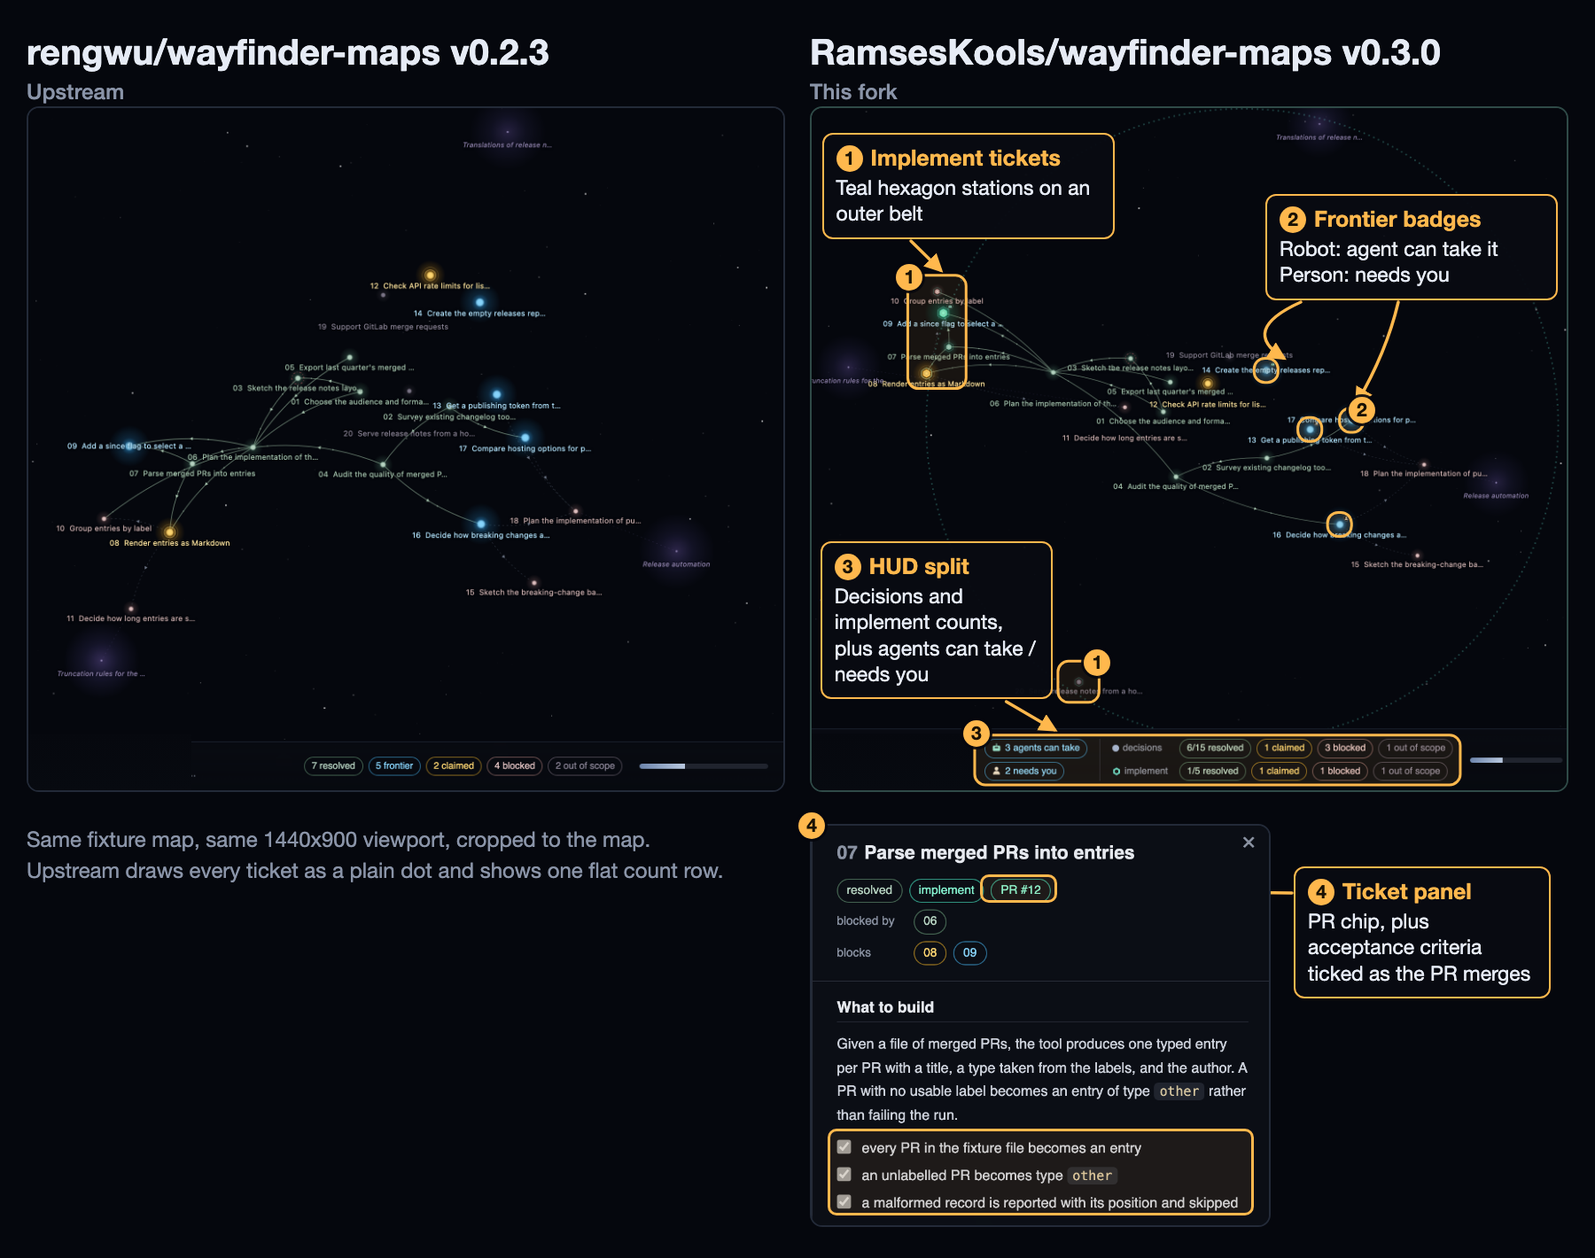
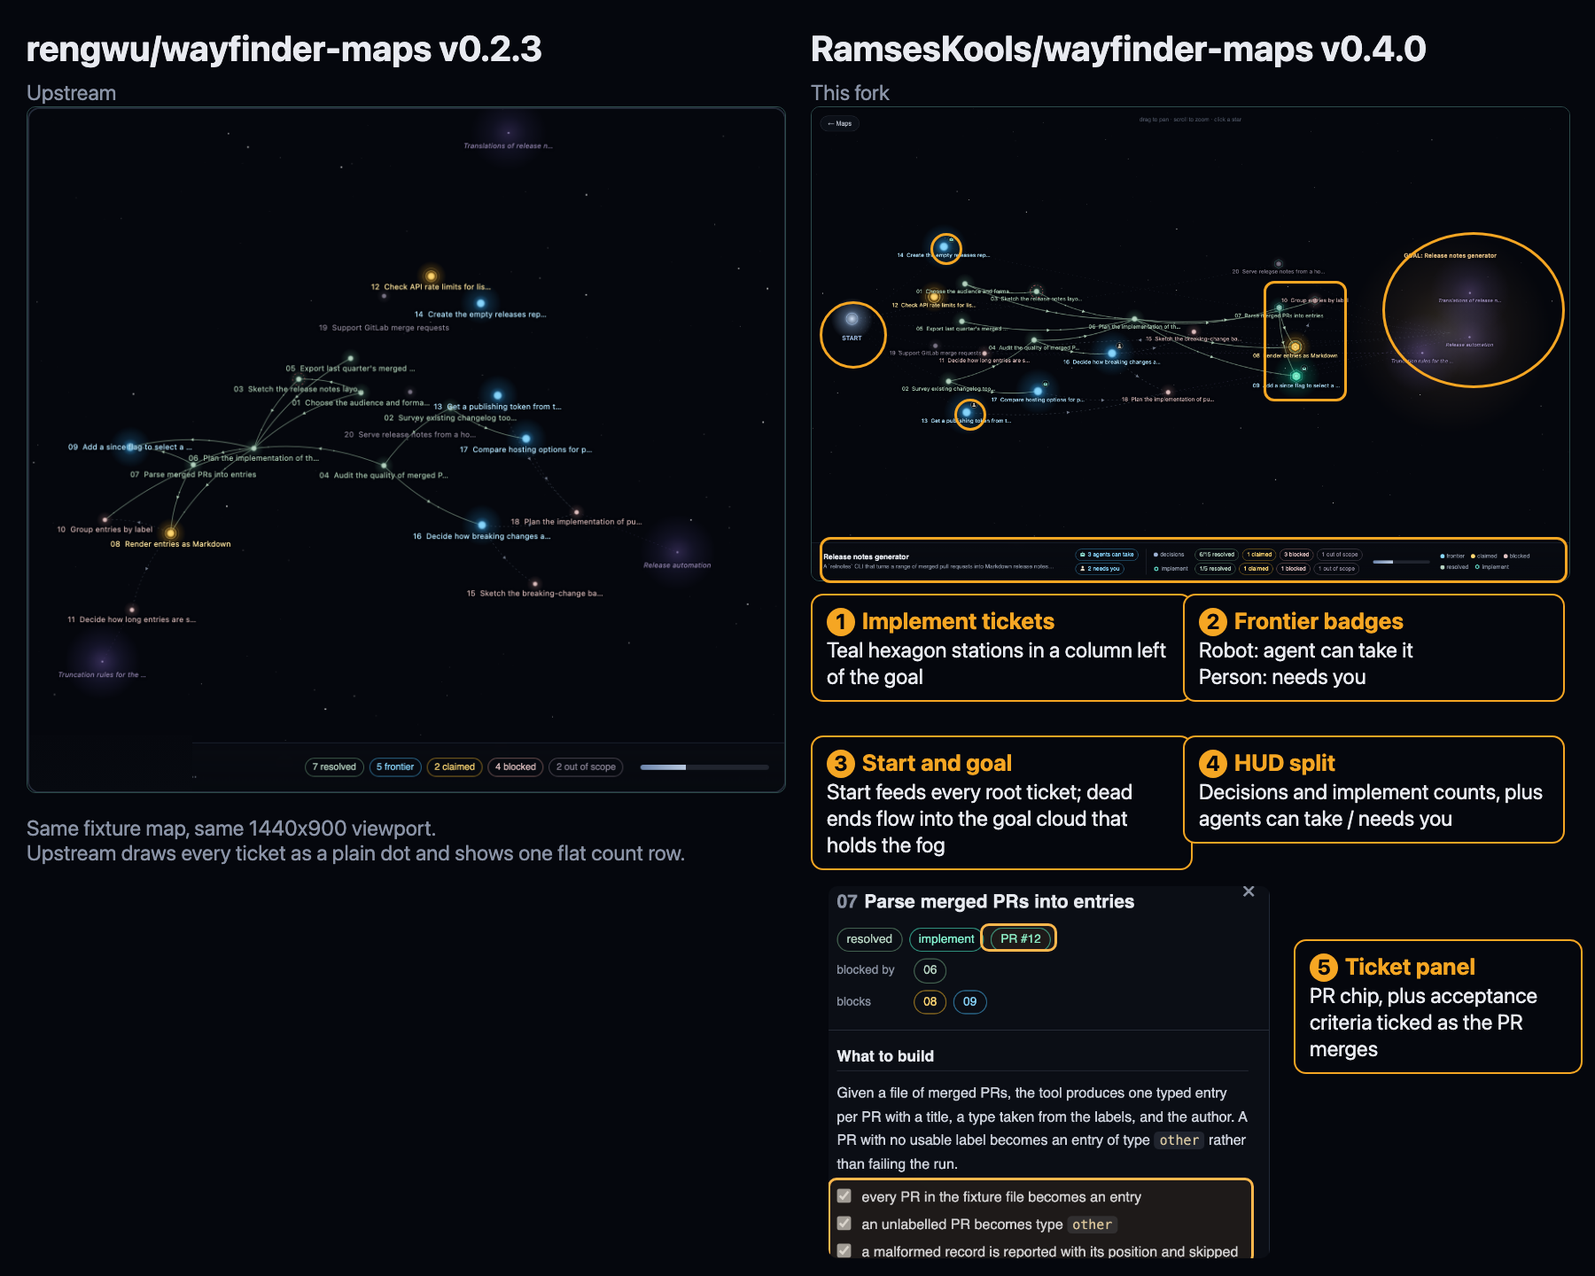
feat(viewer): virtual start, goal cloud and left-to-right layout (v0.4.0) (#13)
* feat(viewer): virtual start, goal cloud and left-to-right star map layout

Closes #12

* docs: refresh README images for the left-to-right layout

* fix(viewer): drop the implement belt line in the left-to-right layout

diff --git a/cmd/wayfinder-maps/web/js/layout.js b/cmd/wayfinder-maps/web/js/layout.js
@@ -2,12 +2,13 @@
 import {S} from "./state.js";
 import {clamp, mulberry32} from "./util.js";
 
-export function ringR(rank) { return 130 + rank * 165; }
+// The map reads left to right: a ticket sits in the column of its dependency depth.
+export function colX(rank) { return rank * 190; }
 
-// Implement tickets orbit in an outer belt past the outermost decision ring.
+// Implement tickets sit in a column past the rightmost decision column.
 // Maps without implement tickets never reach the belt branch, so their layout
 // is unchanged.
-var BELT_GAP = 160, BELT_FRAC = 0.3, BELT_STEP = 40;
+var BELT_GAP = 190, BELT_STEP = 40;
 var BELT_PULL = 0.2;
 var belt = false, decDepth = 0, beltR = 0;
 // With a belt, depth is counted within each kind: a decision that waits on an
@@ -28,41 +29,35 @@ function rankSpan() {
     return (memo[n.num] = d);
   }
   S.nodes.forEach(function(n) { n._depth = depth(n); if (n.kind !== "implement") decDepth = Math.max(decDepth, n._depth); });
-  beltR = ringR(decDepth);
+  beltR = colX(decDepth);
 }
-// The belt is a hard floor: past the outermost decision, an implement ticket is
-// pushed back out to its radius and keeps its angle, so edges only steer it around.
+// The belt is a hard floor: an implement ticket left of its column is pushed
+// right to it and keeps its y, so edges only steer it up and down.
 function clampBelt(list) {
   if (!belt) return;
-  beltR = ringR(decDepth);
-  S.nodes.forEach(function(n) { if (n.kind !== "implement") beltR = Math.max(beltR, Math.hypot(n.x, n.y)); });
-  list.forEach(function(n) {
-    if (n.kind !== "implement") return;
-    var d = Math.hypot(n.x, n.y) || 0.01, R = targetR(n);
-    if (d < R) { n.x *= R / d; n.y *= R / d; }
-  });
+  beltR = colX(decDepth);
+  S.nodes.forEach(function(n) { if (n.kind !== "implement") beltR = Math.max(beltR, n.x); });
+  list.forEach(function(n) { if (n.kind === "implement") n.x = Math.max(n.x, targetX(n)); });
 }
 function recentre() {
-  var cx = 0, cy = 0, k = 0;
-  S.nodes.forEach(function(n) { if (n.kind !== "implement") { cx += n.x; cy += n.y; k++; } });
-  if (k) S.nodes.forEach(function(n) { n.x -= cx / k; n.y -= cy / k; });
+  var cy = 0;
+  S.nodes.forEach(function(n) { cy += n.y; });
+  if (S.nodes.length) S.nodes.forEach(function(n) { n.y -= cy / S.nodes.length; });
 }
-export function targetR(n) {
-  if (!belt) return ringR(n.rank);
-  if (n.kind !== "implement") return ringR(n._depth);
-  return beltR + Math.max(BELT_GAP, beltR * BELT_FRAC) + n._depth * BELT_STEP;
+export function targetX(n) {
+  if (!belt) return colX(n.rank);
+  if (n.kind !== "implement") return colX(n._depth);
+  return beltR + BELT_GAP + n._depth * BELT_STEP;
 }
 
 export function layout() {
   rankSpan();
   var rnd = mulberry32(1337);
   S.nodes.forEach(function(n) {
-    var ang = rnd() * 6.2831853;
-    var jit = (rnd() - 0.5) * 70;
-    var R = targetR(n) + jit;
-    n.x = Math.cos(ang) * R; n.y = Math.sin(ang) * R;
+    n.x = targetX(n) + (rnd() - 0.5) * 70;
+    n.y = (rnd() - 0.5) * 80 * Math.sqrt(S.nodes.length);
   });
-  var REP = 9000, SPRING = 0.02, REST = 150, RADIAL = 0.05;
+  var REP = 9000, SPRING = 0.02, REST = 150, COLPULL = 0.12, YPULL = 0.012;
   for (var it = 0; it < 420; it++) {
     for (var i = 0; i < S.nodes.length; i++) {
       var a = S.nodes[i];
@@ -80,10 +75,10 @@ export function layout() {
       a.x += ux * f; a.y += uy * f; b.x -= ux * f; b.y -= uy * f;
     });
     S.nodes.forEach(function(n) {
-      var d = Math.hypot(n.x, n.y) || 0.01; var target = targetR(n);
-      var f = (target - d) * (belt && n.kind === "implement" ? BELT_PULL : RADIAL); n.x += (n.x / d) * f; n.y += (n.y / d) * f;
+      n.x += (targetX(n) - n.x) * (belt && n.kind === "implement" ? BELT_PULL : COLPULL);
+      n.y -= n.y * YPULL;
     });
-    if (belt) recentre();
+    recentre();
     clampBelt(S.nodes);
   }
 }
@@ -107,14 +102,14 @@ export function relayoutWarm() {
     });
     var ang = rnd() * 6.2831853;
     if (ax != null) { n.x = ax + Math.cos(ang) * 120; n.y = ay + Math.sin(ang) * 120; }
-    else { var R = targetR(n); n.x = Math.cos(ang) * R; n.y = Math.sin(ang) * R; }
+    else { n.x = targetX(n); n.y = (rnd() - 0.5) * 300; }
   });
   for (var it = 0; it < 200; it++) {
     for (var k = 0; k < fresh.length; k++) {
       var n = fresh[k], fx = 0, fy = 0, i;
       for (i = 0; i < S.nodes.length; i++) { var o = S.nodes[i]; if (o === n) continue; var dx = n.x - o.x, dy = n.y - o.y, d2 = dx * dx + dy * dy || 0.01, d = Math.sqrt(d2), f = 9000 / d2; fx += dx / d * f; fy += dy / d * f; }
       for (i = 0; i < S.edges.length; i++) { var e = S.edges[i], o2 = null; if (e.from === n.num) o2 = S.byNum[e.to]; else if (e.to === n.num) o2 = S.byNum[e.from]; if (!o2) continue; var dx2 = o2.x - n.x, dy2 = o2.y - n.y, dd2 = Math.hypot(dx2, dy2) || 0.01, f2 = (dd2 - 150) * 0.02; fx += dx2 / dd2 * f2; fy += dy2 / dd2 * f2; }
-      var dd = Math.hypot(n.x, n.y) || 0.01, rf = (targetR(n) - dd) * (n.kind === "implement" ? BELT_PULL : 0.05); fx += n.x / dd * rf; fy += n.y / dd * rf;
+      fx += (targetX(n) - n.x) * (n.kind === "implement" ? BELT_PULL : 0.05); fy -= n.y * 0.012;
       n.x += fx; n.y += fy;
     }
     clampBelt(fresh);
@@ -126,6 +121,7 @@ export function fitCamera() {
   var minx = 1e9, miny = 1e9, maxx = -1e9, maxy = -1e9;
   S.nodes.forEach(function(n) { minx = Math.min(minx, n.x); miny = Math.min(miny, n.y); maxx = Math.max(maxx, n.x); maxy = Math.max(maxy, n.y); });
   for (var i = 0; i < S.fogPts.length; i++) { var f = S.fogPts[i]; minx = Math.min(minx, f.x - 90); miny = Math.min(miny, f.y - 90); maxx = Math.max(maxx, f.x + 90); maxy = Math.max(maxy, f.y + 90); }
+  [S.startPt, S.goalPt].forEach(function(p) { if (p) { minx = Math.min(minx, p.x - p.r); miny = Math.min(miny, p.y - p.r); maxx = Math.max(maxx, p.x + p.r); maxy = Math.max(maxy, p.y + p.r); } });
   var pad = 70; minx -= pad; miny -= pad; maxx += pad; maxy += pad;
   var spanx = maxx - minx || 1, spany = maxy - miny || 1;
   // Leave the top hint and the bottom HUD bar their own bands, and fit/centre the

diff --git a/cmd/wayfinder-maps/web/js/endpoints.js b/cmd/wayfinder-maps/web/js/endpoints.js
@@ -1,0 +1,63 @@
+// The virtual start (left) and goal (right) of the map. Start feeds every root
+// ticket; the goal is an abstract cloud that every dead-end ticket flows into
+// and that holds the fog. Neither is a ticket, so neither is selectable.
+import {S, ctx} from "./state.js";
+import {clamp, hexA} from "./util.js";
+import {colX} from "./layout.js";
+
+var GAP = 190;
+
+export function setupEndpoints() {
+  S.startPt = S.goalPt = null;
+  if (!S.nodes.length) return;
+  var minx = 1e9, maxx = -1e9, ry = 0, rn = 0, nf = (S.graph && S.graph.fog ? S.graph.fog.length : 0);
+  S.nodes.forEach(function(n) {
+    minx = Math.min(minx, n.x); maxx = Math.max(maxx, n.x);
+    if (!(n.blockers || []).length) { ry += n.y; rn++; }
+  });
+  var R = clamp(130 + 24 * nf, 130, 260);
+  S.startPt = {x: Math.min(minx, colX(0)) - GAP, y: rn ? ry / rn : 0, r: 22};
+  S.goalPt = {x: maxx + GAP + R * 0.6, y: 0, r: R};
+}
+
+function curve(ax, ay, bx, by) {
+  var dx = bx - ax, dy = by - ay, len = Math.hypot(dx, dy) || 1, bow = Math.min(40, len * 0.1);
+  ctx.beginPath(); ctx.moveTo(ax, ay);
+  ctx.quadraticCurveTo((ax + bx) / 2 - dy / len * bow, (ay + by) / 2 + dx / len * bow, bx, by); ctx.stroke();
+}
+
+export function drawEndpoints() {
+  var s = S.startPt, g = S.goalPt; if (!s || !g) return;
+  var hasDep = {};
+  S.edges.forEach(function(e) { hasDep[e.from] = true; });
+  ctx.strokeStyle = "rgba(132,146,168,0.22)"; ctx.lineWidth = 1.1; ctx.setLineDash([2, 8]);
+  S.nodes.forEach(function(n) {
+    if (!(n.blockers || []).length) curve(s.x, s.y, n._x, n._y);
+    if (!hasDep[n.num]) curve(n._x, n._y, g.x, g.y);
+  });
+  ctx.setLineDash([]);
+  var breathe = 0.9 + 0.1 * Math.sin(S.clock * 0.6);
+  var cg = ctx.createRadialGradient(g.x, g.y, 0, g.x, g.y, g.r * 1.15);
+  cg.addColorStop(0, "rgba(255,226,150," + (0.2 * breathe) + ")");
+  cg.addColorStop(0.5, "rgba(230,170,110," + (0.08 * breathe) + ")");
+  cg.addColorStop(1, "rgba(230,170,110,0)");
+  ctx.fillStyle = cg; ctx.beginPath(); ctx.arc(g.x, g.y, g.r * 1.15, 0, 6.2831853); ctx.fill();
+  var sg = ctx.createRadialGradient(s.x, s.y, 0, s.x, s.y, s.r * 2.2);
+  sg.addColorStop(0, "rgba(220,235,255,0.95)"); sg.addColorStop(0.4, "rgba(150,190,240,0.35)"); sg.addColorStop(1, "rgba(150,190,240,0)");
+  ctx.fillStyle = sg; ctx.beginPath(); ctx.arc(s.x, s.y, s.r * 2.2, 0, 6.2831853); ctx.fill();
+  ctx.strokeStyle = hexA("#a8c8f0", 0.6); ctx.lineWidth = 1.4;
+  ctx.beginPath(); ctx.arc(s.x, s.y, s.r * 0.6, 0, 6.2831853); ctx.stroke();
+}
+
+export function drawEndpointLabels(a) {
+  var s = S.startPt, g = S.goalPt; if (!s || !g || S.cam.s < 0.22 || a <= 0.002) return;
+  var fs = clamp(12 * Math.pow(S.cam.s, 0.3), 9, 14);
+  ctx.textAlign = "center"; ctx.font = "600 " + fs.toFixed(1) + "px ui-sans-serif,system-ui,sans-serif";
+  ctx.shadowColor = "rgba(0,0,0," + (0.85 * a).toFixed(3) + ")"; ctx.shadowBlur = 4;
+  ctx.fillStyle = "rgba(168,200,240," + (0.9 * a).toFixed(3) + ")";
+  ctx.fillText("START", s.x * S.ec.s + S.ec.x, (s.y + s.r * 1.6) * S.ec.s + S.ec.y + fs);
+  ctx.fillStyle = "rgba(255,214,150," + (0.9 * a).toFixed(3) + ")";
+  var t = "GOAL" + (S.graph && S.graph.name ? ": " + S.graph.name : ""); if (t.length > 40) t = t.slice(0, 39) + "…";
+  ctx.fillText(t, g.x * S.ec.s + S.ec.x, (g.y - g.r * 0.85) * S.ec.s + S.ec.y);
+  ctx.shadowBlur = 0;
+}

diff --git a/cmd/wayfinder-maps/web/js/draw.js b/cmd/wayfinder-maps/web/js/draw.js
@@ -5,6 +5,7 @@ import {S, ctx, dpr} from "./state.js";
 import {mod, clamp, hexA, pad2, mulberry32} from "./util.js";
 import {LABELCOL, STATION, AFKCOL, HITLCOL, GLYPH, col} from "./theme.js";
 import {drawFog, drawFogLabels} from "./fog.js";
+import {drawEndpoints, drawEndpointLabels} from "./endpoints.js";
 
 var EASE = 0.28;    // cam eases toward goal each frame
 var POSEASE = 0.12; // node position tweening after a live update
@@ -50,7 +51,7 @@ function drawStars(W, H) {
   ctx.globalAlpha = 1;
 }
 
-// --- stations, glyphs, belt ------------------------------------------------
+// --- stations, glyphs ------------------------------------------------
 var GP = {afk: new Path2D(GLYPH.afk), hitl: new Path2D(GLYPH.hitl)};
 
 function hexPath(x, y, R) {
@@ -78,14 +79,6 @@ function drawWho(n, c, x, y, en) {
   ctx.strokeStyle = hexA(color, 0.5 * en); ctx.lineWidth = 1; ctx.stroke();
   ctx.save(); ctx.translate(gx - 5, gy - 5); ctx.fillStyle = hexA(color, 0.95 * en);
   ctx.fill(n.afk ? GP.afk : GP.hitl, "evenodd"); ctx.restore();
-}
-
-function drawBelt() {
-  var sum = 0, cnt = 0;
-  S.nodes.forEach(function(n) { if (n.kind === "implement") { sum += Math.hypot(n.px, n.py); cnt++; } });
-  if (!cnt) return;
-  ctx.strokeStyle = hexA(STATION, 0.34); ctx.lineWidth = 1.8 / Math.max(S.ec.s, 0.3); ctx.setLineDash([4, 10]);
-  ctx.beginPath(); ctx.arc(0, 0, sum / cnt, 0, 6.2831853); ctx.stroke(); ctx.setLineDash([]);
 }
 
 // --- nodes, edges, labels ---------------------------------------------------
@@ -241,12 +234,12 @@ export function render() {
   ctx.fillStyle = "#05070d"; ctx.fillRect(0, 0, W, H);
   drawStars(W, H); // starfield backdrop never fades
   ctx.save(); ctx.globalAlpha = S.mapAlpha; ctx.translate(S.ec.x, S.ec.y); ctx.scale(S.ec.s, S.ec.s);
-  drawBelt(); drawFog(); S.edges.forEach(drawEdge); S.nodes.forEach(drawNode);
+  drawEndpoints(); drawFog(); S.edges.forEach(drawEdge); S.nodes.forEach(drawNode);
   ctx.restore();
   // Labels take the fade as an argument rather than through globalAlpha: WebKit's
   // canvas ignores globalAlpha on fillText once a shadow is set, so text drawn that
   // way stays fully opaque while the constellation dissolves. Baking the alpha into
   // the text and shadow colours is honoured by every engine.
-  drawLabels(S.mapAlpha); drawFogLabels(S.mapAlpha);
+  drawLabels(S.mapAlpha); drawEndpointLabels(S.mapAlpha); drawFogLabels(S.mapAlpha);
   requestAnimationFrame(render);
 }

diff --git a/cmd/wayfinder-maps/web/js/screens.js b/cmd/wayfinder-maps/web/js/screens.js
@@ -4,6 +4,7 @@ import {S} from "./state.js";
 import {el} from "./util.js";
 import {layout, relayoutWarm, fitCamera} from "./layout.js";
 import {setupFog} from "./fog.js";
+import {setupEndpoints} from "./endpoints.js";
 import {buildHud} from "./hud.js";
 import {fillPanel, closePanel} from "./panel.js";
 import {startFade} from "./draw.js";
@@ -14,7 +15,7 @@ function sortNodes(g) { return (g.nodes || []).slice().sort(function(a, b) { ret
 // scratch, then fit the camera. Used when a map is first opened or switched to.
 function applyGraph(g) {
   S.graph = g; S.nodes = sortNodes(g); S.edges = g.edges || []; S.byNum = {}; S.nodes.forEach(function(n) { S.byNum[n.num] = n; });
-  layout(); S.nodes.forEach(function(n) { n.px = n.x; n.py = n.y; n._x = n.x; n._y = n.y; }); setupFog(); fitCamera();
+  layout(); S.nodes.forEach(function(n) { n.px = n.x; n.py = n.y; n._x = n.x; n._y = n.y; }); setupEndpoints(); setupFog(); fitCamera();
   S.goal.x = S.cam.x; S.goal.y = S.cam.y; S.goal.s = S.cam.s; buildHud();
 }
 
@@ -38,7 +39,7 @@ function updateGraph(ng) {
   S.edges = ng.edges || []; S.graph = ng;
   relayoutWarm();                                                       // survivors pinned; only new nodes placed
   S.nodes.forEach(function(n) { if (n.px == null) { n.px = n.x; n.py = n.y; } }); // new nodes appear at their final spot
-  setupFog(); buildHud();                                               // note: no fitCamera — keep the user's view
+  setupEndpoints(); setupFog(); buildHud();                                               // note: no fitCamera — keep the user's view
   if (S.selected) { if (S.byNum[S.selected.num]) fillPanel(S.selected); else closePanel(); }
 }
 
@@ -64,7 +65,7 @@ export function startPolling() {
 // poller goes idle because currentEffort is cleared.
 function unmountMap() {
   S.currentEffort = null; S.lastVersion = null; S.selected = null;
-  S.graph = null; S.nodes = []; S.edges = []; S.byNum = {}; S.fogPts = [];
+  S.graph = null; S.nodes = []; S.edges = []; S.byNum = {}; S.fogPts = []; S.startPt = S.goalPt = null;
   closePanel();
 }
 

diff --git a/cmd/wayfinder-maps/web/js/fog.js b/cmd/wayfinder-maps/web/js/fog.js
@@ -1,20 +1,18 @@
 // Fog patches (open questions not yet sharp enough to ticket) sit as faint
-// nebulae in the void beyond the constellation, each tethered to the ticket
-// that will clear it. Positions are deterministic: an anchored patch sits out
-// past its ticket's angle, an unanchored one is spread by the golden angle.
+// nebulae inside the goal cloud, each tethered to the ticket that will clear
+// it. Positions are deterministic: spread by the golden angle.
 import {S, ctx} from "./state.js";
 import {clamp, mulberry32} from "./util.js";
 
 export function setupFog() {
   S.fogPts = [];
-  if (!S.graph || !S.graph.fog || !S.graph.fog.length || !S.nodes.length) return;
-  var cx = 0, cy = 0; S.nodes.forEach(function(n) { cx += n.x; cy += n.y; }); cx /= S.nodes.length; cy /= S.nodes.length;
-  var rim = 0; S.nodes.forEach(function(n) { rim = Math.max(rim, Math.hypot(n.x - cx, n.y - cy)); }); rim += 130;
-  var rnd = mulberry32(4242);
+  var g = S.goalPt;
+  if (!g || !S.graph || !S.graph.fog || !S.graph.fog.length) return;
+  var rnd = mulberry32(4242), n = S.graph.fog.length;
   S.graph.fog.forEach(function(f, i) {
     var anc = f.clearsWith ? S.byNum[f.clearsWith] : null;
-    var ang = anc ? Math.atan2(anc.y - cy, anc.x - cx) + (rnd() - 0.5) * 0.3 : (i * 2.399963 + rnd() * 0.4);
-    S.fogPts.push({title: f.title, anchor: anc || null, x: cx + Math.cos(ang) * rim, y: cy + Math.sin(ang) * rim});
+    var ang = i * 2.399963 + rnd() * 0.4, rad = n === 1 ? 0 : g.r * 0.55 * Math.sqrt((i + 0.5) / n);
+    S.fogPts.push({title: f.title, anchor: anc || null, x: g.x + Math.cos(ang) * rad, y: g.y + Math.sin(ang) * rad});
   });
 }
 

diff --git a/cmd/wayfinder-maps/web/js/state.js b/cmd/wayfinder-maps/web/js/state.js
@@ -37,5 +37,9 @@ export const S = {
 
   // Fog patches (open questions not yet sharp enough to ticket), placed by
   // fog.js; also read by fitCamera so nebulae stay inside the fitted view.
-  fogPts: []
+  fogPts: [],
+
+  // Virtual start/goal {x,y,r}, placed by endpoints.js from the laid-out nodes.
+  startPt: null,
+  goalPt: null
 };

diff --git a/docs/starmap-design.md b/docs/starmap-design.md
@@ -25,10 +25,12 @@ same data, exactly as the first web UI was. Re-read-on-refresh stays. The
    build step, and a fundamentally 2D dependency graph gains only occlusion and
    depth-ambiguity from a third axis). Rejected enriched-SVG (no real camera).
 
-2. **Layout: force-directed, rank-biased.** A physics sim spreads nodes into an
-   organic constellation, but each node is soft-pulled toward a radius set by its
-   dependency depth (`Layers()` rank) — roots drift inward, deeper tickets to the
-   rim. Edges stay mostly monotonic so "what unblocks what" still reads. Rejected
+2. **Layout: force-directed, rank-biased, left to right.** A physics sim spreads
+   nodes into an organic constellation, but each node is soft-pulled toward a
+   column set by its dependency depth (`Layers()` rank) — roots sit left, deeper
+   tickets to the right. A virtual **start** on the left feeds every root ticket;
+   a virtual **goal** cloud on the right takes every dead-end ticket and holds the
+   fog, so nothing floats. Edges stay mostly monotonic so "what unblocks what" still reads. Rejected
    strict concentric rings (too clockwork, unlike the reference images) and pure
    force-directed (position would carry no meaning).
 
@@ -52,13 +54,10 @@ same data, exactly as the first web UI was. Re-read-on-refresh stays. The
    label and in the detail panel. Two additions ride on top of status (see
    [the implement phase](implement-phase-design.md)):
    - implement tickets are **stations**: a lit hexagon in a teal frame instead of a
-     round star, laid out in an outer belt past the decision rings (a faint dotted
-     orbit marks it). The belt is a hard floor: after every relaxation step a
-     station inside its belt radius is pushed back out, keeping its angle, so edges
-     only steer it around the ring. The ring sits max(160, 0.3 of the decision rim)
-     past the outermost decision, centred on the decisions, with a legible teal
-     orbit line. Stations never draw smaller than at 0.5x zoom. Status colours,
-     glow, pulse and rings keep their meaning.
+     round star, laid out in a column past the decision columns. The belt is a hard floor: after every relaxation step a
+     station left of its column is pushed right, keeping its y, so edges only steer
+     it up and down. The column sits 190 past the rightmost decision column.
+     Stations never draw smaller than at 0.5x zoom. Status colours, glow, pulse and rings keep their meaning.
    - a frontier ticket carries a small badge at its upper right: a robot when an
      agent can take it alone, a person when it needs the human.
 
@@ -81,11 +80,11 @@ same data, exactly as the first web UI was. Re-read-on-refresh stays. The
    immersion every read) and hover-tooltip-only (can't read a ticket from the
    tool).
 
-7. **Context: full HUD + Fog as rim nebula; decisions fold into the stars.**
+7. **Context: full HUD + Fog in the goal cloud; decisions fold into the stars.**
    Counts + progress are an RTS resource bar (the frontier reads "agents can take"
    and "needs you"; with implement tickets the counts split into a decisions row
-   and an implement row); the Destination is named in the HUD and anchors the bright core the layout radiates from. Fog patches render as
-   faint nebulae drifting at the map's edge, clickable to read the patch, with a
+   and an implement row); the Destination is named in the HUD and labels the goal cloud. Fog patches render as
+   faint nebulae inside the goal cloud, clickable to read the patch, with a
    dashed tether to their anchor ticket when they have one. Decisions-so-far stops
    being a separate list — a resolved star *is* a decision, and its one-line gist
    shows in its panel. Rejected minimal-HUD-with-text-panels-below (staples a

diff --git a/README.md b/README.md
@@ -1,4 +1,4 @@
-<img src="docs/images/demo.png" alt="The wayfinder star-map viewer on a release-notes map: decision stars, teal implement stations on an outer belt, frontier badges, and a HUD with decision and implement counts">
+<img src="docs/images/demo.png" alt="The wayfinder star-map viewer on a release-notes map, laid out left to right from a start node to a goal cloud holding the fog, with teal implement stations, frontier badges, and a HUD with decision and implement counts">
 
 # wayfinder-maps
 
@@ -65,7 +65,7 @@ decisions stop: a map is done when the way is clear, and the build happens somew
 This fork lets a map carry on into the implementation, so the whole journey lives in one
 graph. A map with no implement tickets reads exactly as it does upstream.
 
-<img src="docs/images/compare.png" alt="The same map in the upstream viewer (v0.2.3) and in this fork (v0.3.0), with callouts for implement stations, frontier badges, the split HUD and the ticket panel with its PR chip">
+<img src="docs/images/compare.png" alt="The same map in the upstream viewer (v0.2.3) and in this fork (v0.4.0), with callouts for implement stations, frontier badges, the start and goal, the split HUD and the ticket panel with its PR chip">
 
 What this fork adds:
 
